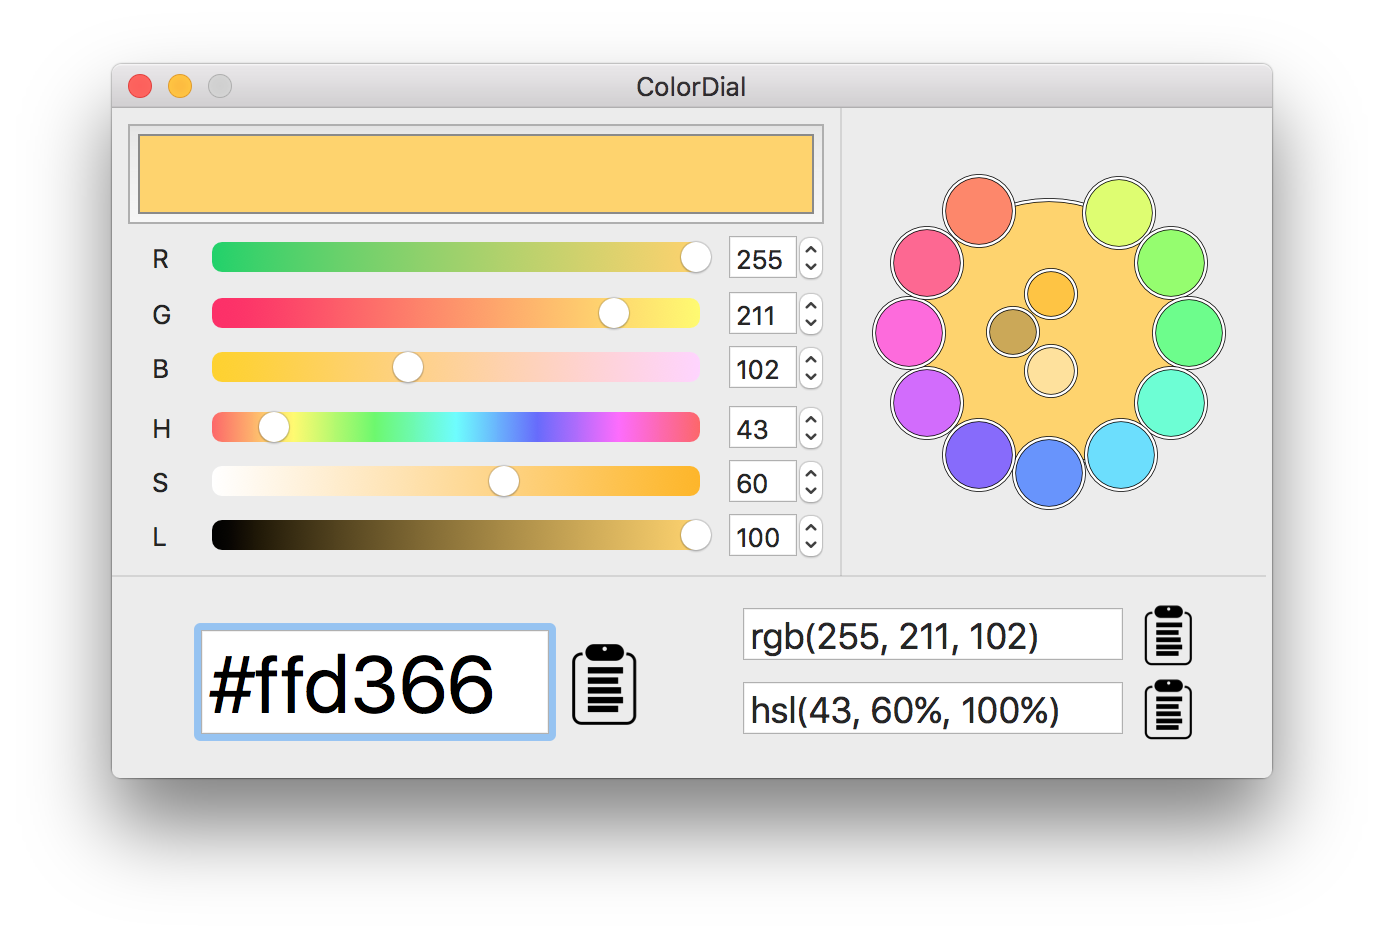
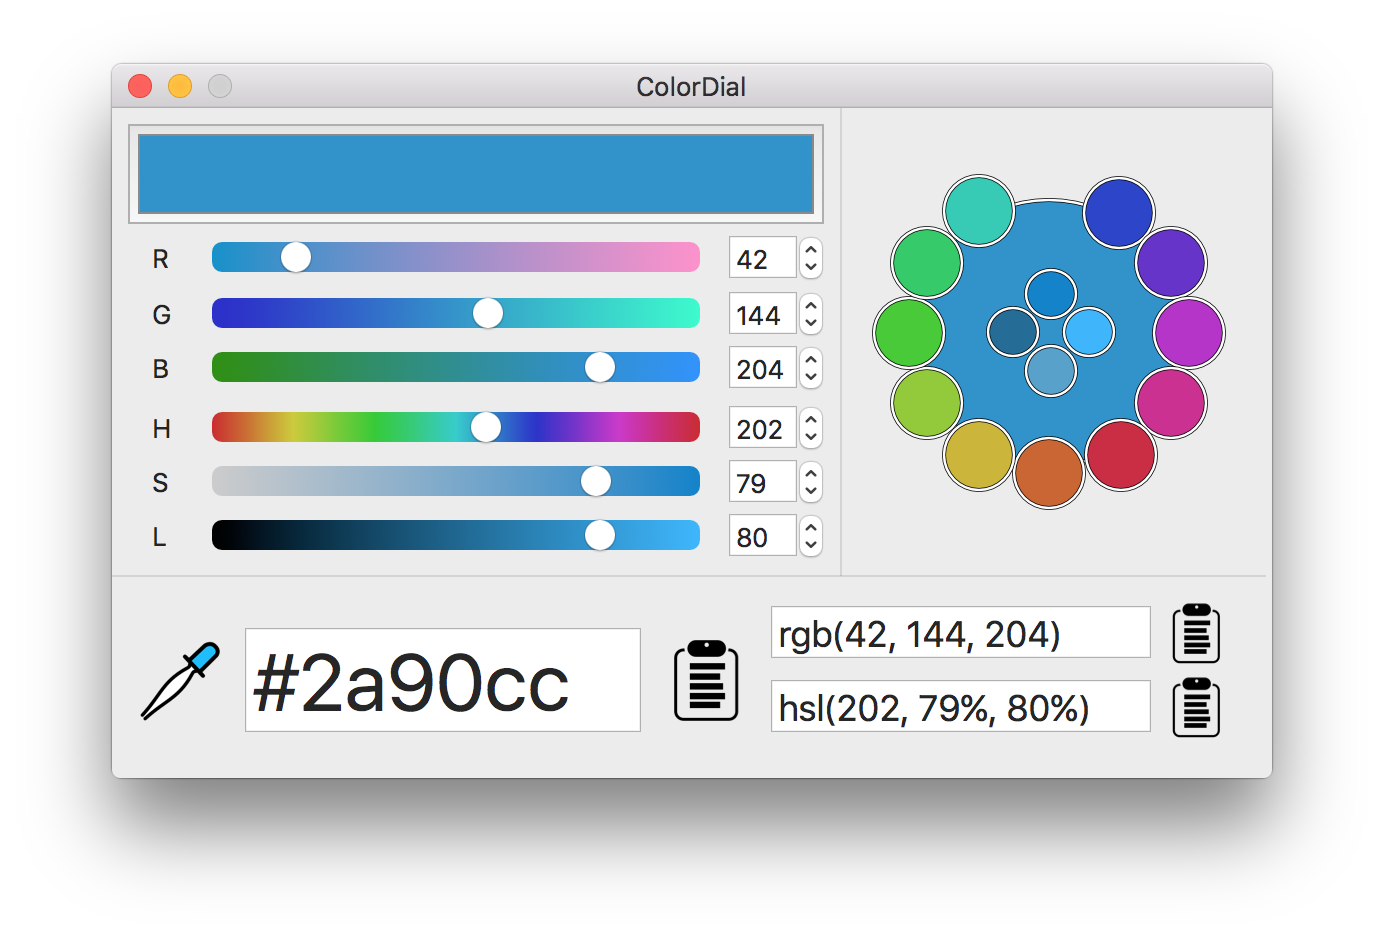
Smooth out the edges of color picking.

Changed region(s): [[0.0932, 0.1237, 0.5903, 0.5874], [0.0932, 0.6183, 0.901, 0.8038], [0.6214, 0.1855, 0.901, 0.5565]]

diff --git a/ColorDial/Picker.swift b/ColorDial/Picker.swift
@@ -9,14 +9,15 @@
 import Cocoa
 
 class Picker: NSView {
-    let pickerSize: CGFloat = 100.0
-    let zoom: CGFloat = 5.0
+    let pickerSize: CGFloat = 99.0
+    let zoom: CGFloat = 10.0
     
     var parent: ViewController!
     var circle: NSBezierPath!
     var image: NSImage!
     var centerColor: NSColor!
-    
+    var picking: Bool = false
+
     var delegate: ColorSupplyDelegate?
     
     required init?(coder: NSCoder) {
@@ -40,6 +41,7 @@ class Picker: NSView {
             
             NSGraphicsContext.saveGraphicsState()
             NSGraphicsContext.setCurrentContext(NSGraphicsContext(bitmapImageRep: scaler))
+            NSGraphicsContext.currentContext()?.imageInterpolation = .None
             
             scaled = NSImage(size: NSSize(width: pickerSize, height: pickerSize))
             
@@ -64,18 +66,11 @@ class Picker: NSView {
         circle.lineWidth = 1
         NSColor.gridColor().setStroke()
         
-        circle.moveToPoint(NSPoint(x: 2, y: half))
-        circle.lineToPoint(NSPoint(x: half - inset/2, y: half))
+        circle.moveToPoint(NSPoint(x: 2,              y: half))
+        circle.lineToPoint(NSPoint(x: pickerSize - 2, y: half))
         
-        circle.moveToPoint(NSPoint(x: pickerSize - 2, y: half))
-        circle.lineToPoint(NSPoint(x: half + inset/2, y: half))
-        
-        circle.moveToPoint(NSPoint(x: half, y: 2))
-        circle.lineToPoint(NSPoint(x: half, y: half - inset/2))
-        
-        circle.moveToPoint(NSPoint(x: half, y: pickerSize - 2))
-        circle.lineToPoint(NSPoint(x: half, y: half + inset/2))
-        
+        circle.moveToPoint(NSPoint(x: half,           y: 2))
+        circle.lineToPoint(NSPoint(x: half,           y: pickerSize - 2))
         
     }
     
@@ -111,6 +106,8 @@ class Picker: NSView {
 
     var lastColor: NSColor!
     func handleMouseMovement() {
+        if (!picking) { return }
+
         let m = NSEvent.mouseLocation()
         
         let half = pickerSize / 2.0
@@ -135,7 +132,7 @@ class Picker: NSView {
         let cgimage = CGWindowListCreateImage(s, CGWindowListOption.OptionOnScreenBelowWindow, CGWindowID(window!.windowNumber), CGWindowImageOption.BestResolution)
         
         let rep = NSBitmapImageRep(CGImage: cgimage!)
-        centerColor = rep.colorAtX(Int(CGFloat(rep.size.width) / 2), y: Int(CGFloat(rep.size.height) / 2))
+        centerColor = rep.colorAtX(Int(CGFloat(rep.size.width) / 2)-1, y: Int(CGFloat(rep.size.height) / 2)-1)
         
         if let delegate = self.delegate {
             if (!centerColor.isEqualTo(lastColor)) {
@@ -172,11 +169,21 @@ class Picker: NSView {
             if (circle.containsPoint(click)) {
                 NSCursor.unhide()
                 window!.orderOut(window!)
+                picking = false
                 if let delegate = self.delegate {
                     delegate.colorSupplied(centerColor, sender: nil)
                 }
             }
         }
+    }
+    
+    func beginPicking() {
+        if (picking) { return }
+        picking = true
+        window?.makeKeyAndOrderFront(window!)
+        becomeFirstResponder()
+        handleMouseMovement()
+        NSCursor.hide()
     }
     
     func carbonScreenPointFromCocoaScreenPoint(cocoaPoint: NSPoint) -> NSPoint {

diff --git a/ColorDial/ViewController.swift b/ColorDial/ViewController.swift
@@ -61,7 +61,7 @@ class ViewController: NSViewController, ColorSupplyDelegate, NSTextFieldDelegate
     var vValue: Int = 0
     
     var color: NSColor = NSColor(red: 0, green: 0, blue: 0, alpha: 0)
-    
+    var textBgColor: NSColor!
     var pickerWin: NSWindow!
     var picker: Picker!
     
@@ -126,11 +126,7 @@ class ViewController: NSViewController, ColorSupplyDelegate, NSTextFieldDelegate
     
     @IBAction func eyeDropper(sender: NSButton) {
         flashPress(sender)
-        
-        pickerWin.makeKeyAndOrderFront(pickerWin)
-        picker.handleMouseMovement()
-        picker.becomeFirstResponder()
-        NSCursor.hide()
+        picker.beginPicking()
     }
     
     @IBAction func hexCopy(sender: NSButton) {
@@ -249,6 +245,8 @@ class ViewController: NSViewController, ColorSupplyDelegate, NSTextFieldDelegate
     
     @IBAction func stepperUpdated(sender: NSStepper) {
         editingTextType = ""
+        hexText.window?.makeFirstResponder(nil)
+
         switch (sender) {
         case rStepper:
             rSlider.integerValue = rStepper.integerValue
@@ -281,6 +279,7 @@ class ViewController: NSViewController, ColorSupplyDelegate, NSTextFieldDelegate
     
     @IBAction func sliderUpdated(sender: NSSlider) {
         editingTextType = ""
+        hexText.window?.makeFirstResponder(nil)
 
         var isRGB: Bool = true;
         switch (sender) {
@@ -333,6 +332,8 @@ class ViewController: NSViewController, ColorSupplyDelegate, NSTextFieldDelegate
             flashPress(sender!)
         }
         editingTextType = ""
+        hexText.window?.makeFirstResponder(nil)
+        hexText.backgroundColor = NSColor.whiteColor()
         color = supply
         setFromColor()
     }
@@ -344,6 +345,7 @@ class ViewController: NSViewController, ColorSupplyDelegate, NSTextFieldDelegate
         let gInt = clampFloatTo(sample.greenComponent * 255)
         let bInt = clampFloatTo(sample.blueComponent * 255)
         hexText.stringValue = String(format: "#%02x%02x%02x", rInt, gInt, bInt)
+        hexText.window?.makeFirstResponder(nil)
     }
         
 
@@ -398,6 +400,8 @@ class ViewController: NSViewController, ColorSupplyDelegate, NSTextFieldDelegate
         pickerWin.backgroundColor = NSColor.clearColor()
         pickerWin.level = Int(CGWindowLevelForKey(.MaximumWindowLevelKey))
         pickerWin.contentView?.addSubview(picker)
+
+        hexText.window?.makeFirstResponder(nil)
 
         setFromColor()
     }
@@ -506,6 +510,8 @@ class ViewController: NSViewController, ColorSupplyDelegate, NSTextFieldDelegate
         if (sValue == 100) { ccPlus.hidden = true; } else if (ccPlus.hidden) { ccPlus.hidden = false; }
         if (vValue == 0) { ccDown.hidden = true; } else if (ccDown.hidden) { ccDown.hidden = false; }
         if (sValue == 0) { ccMinus.hidden = true; } else if (ccMinus.hidden) { ccMinus.hidden = false; }
+        
+        textBgColor = hexText.backgroundColor
     }
 
 }
